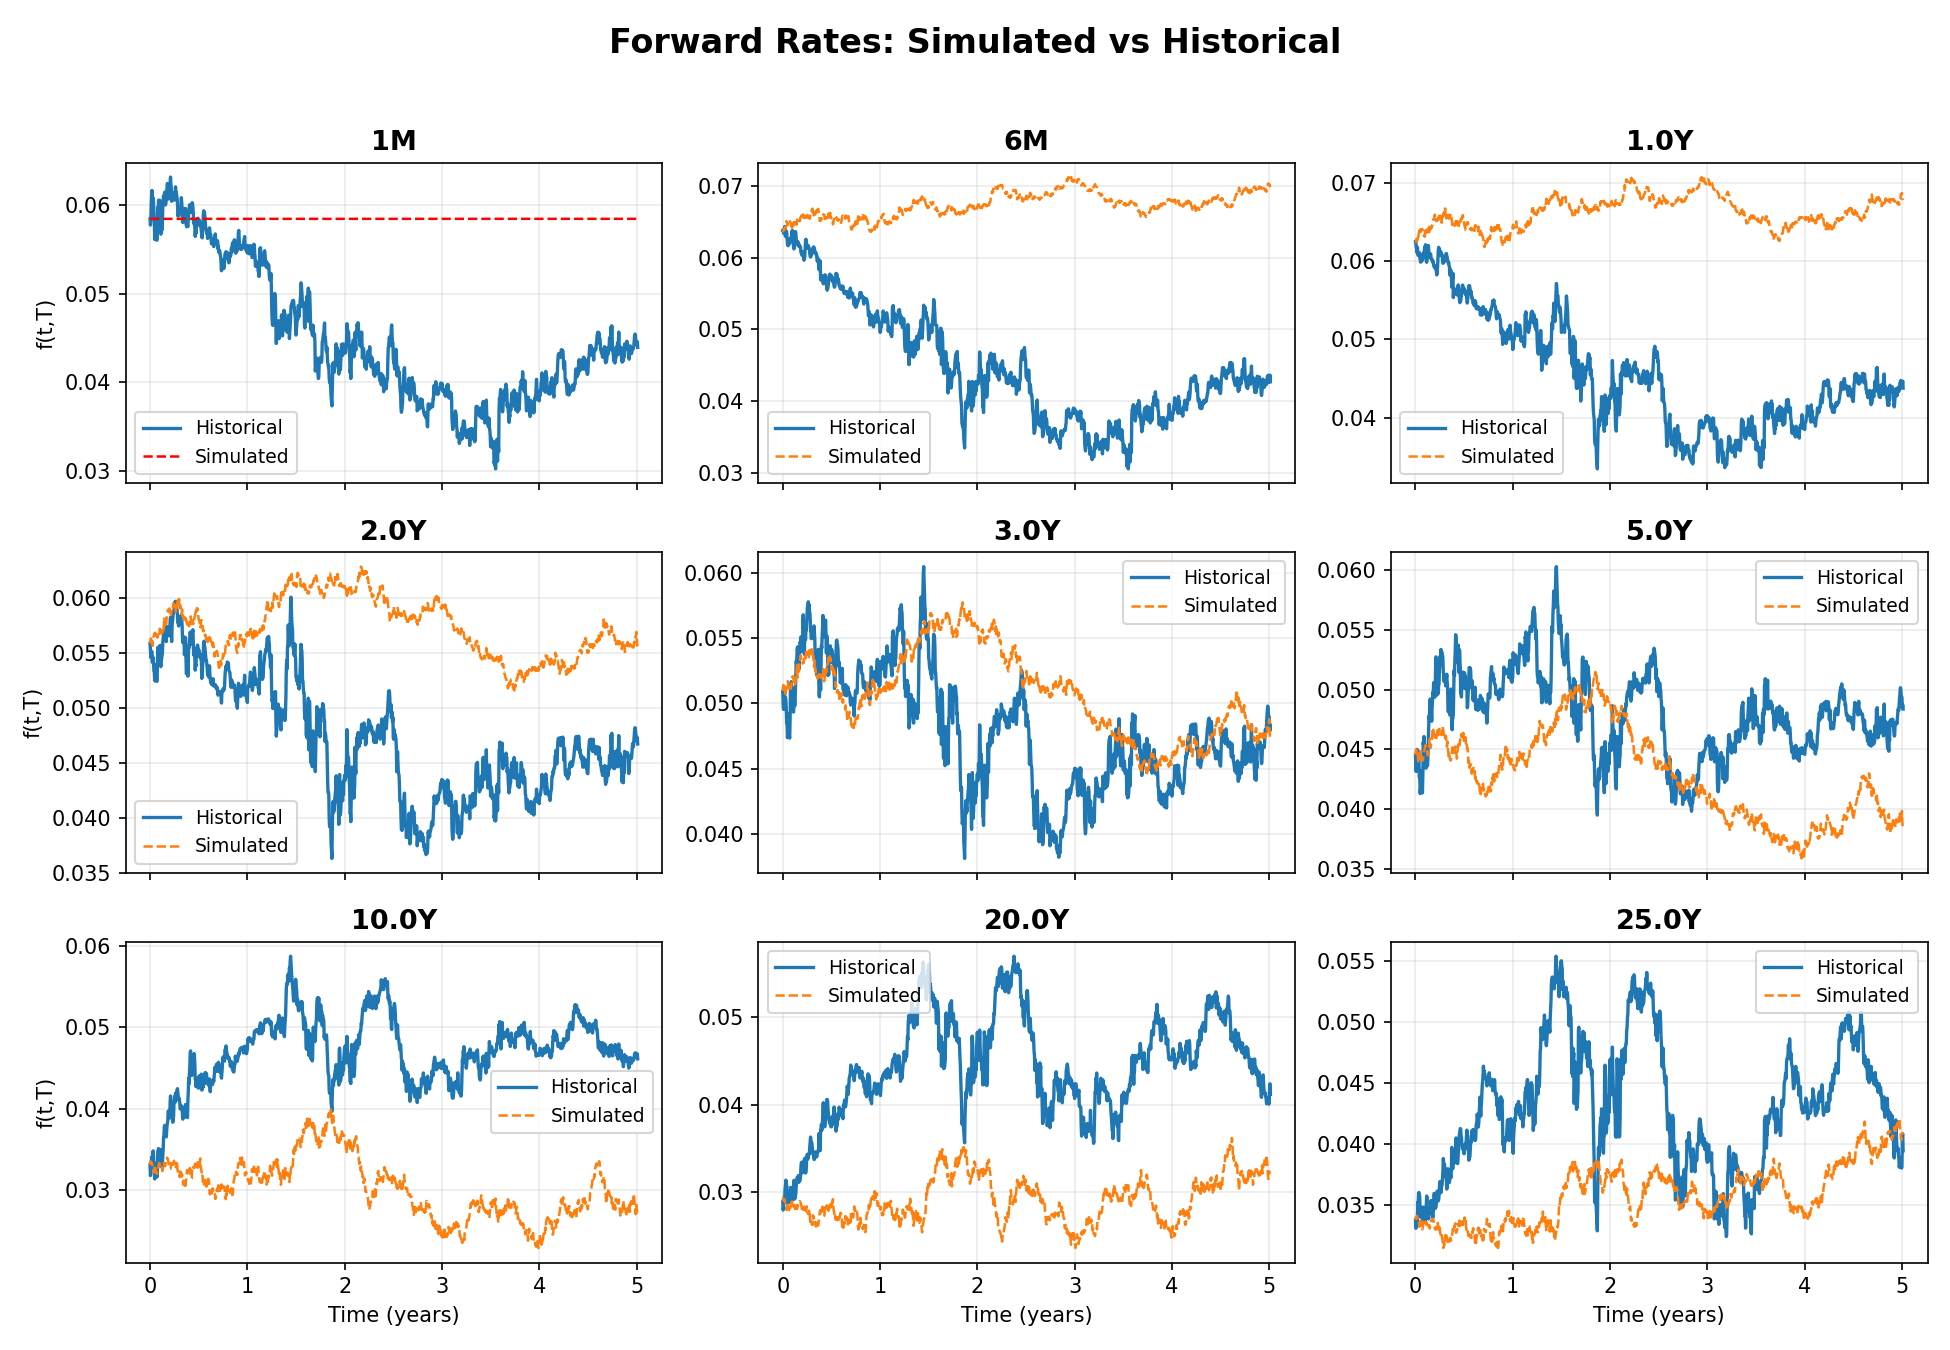
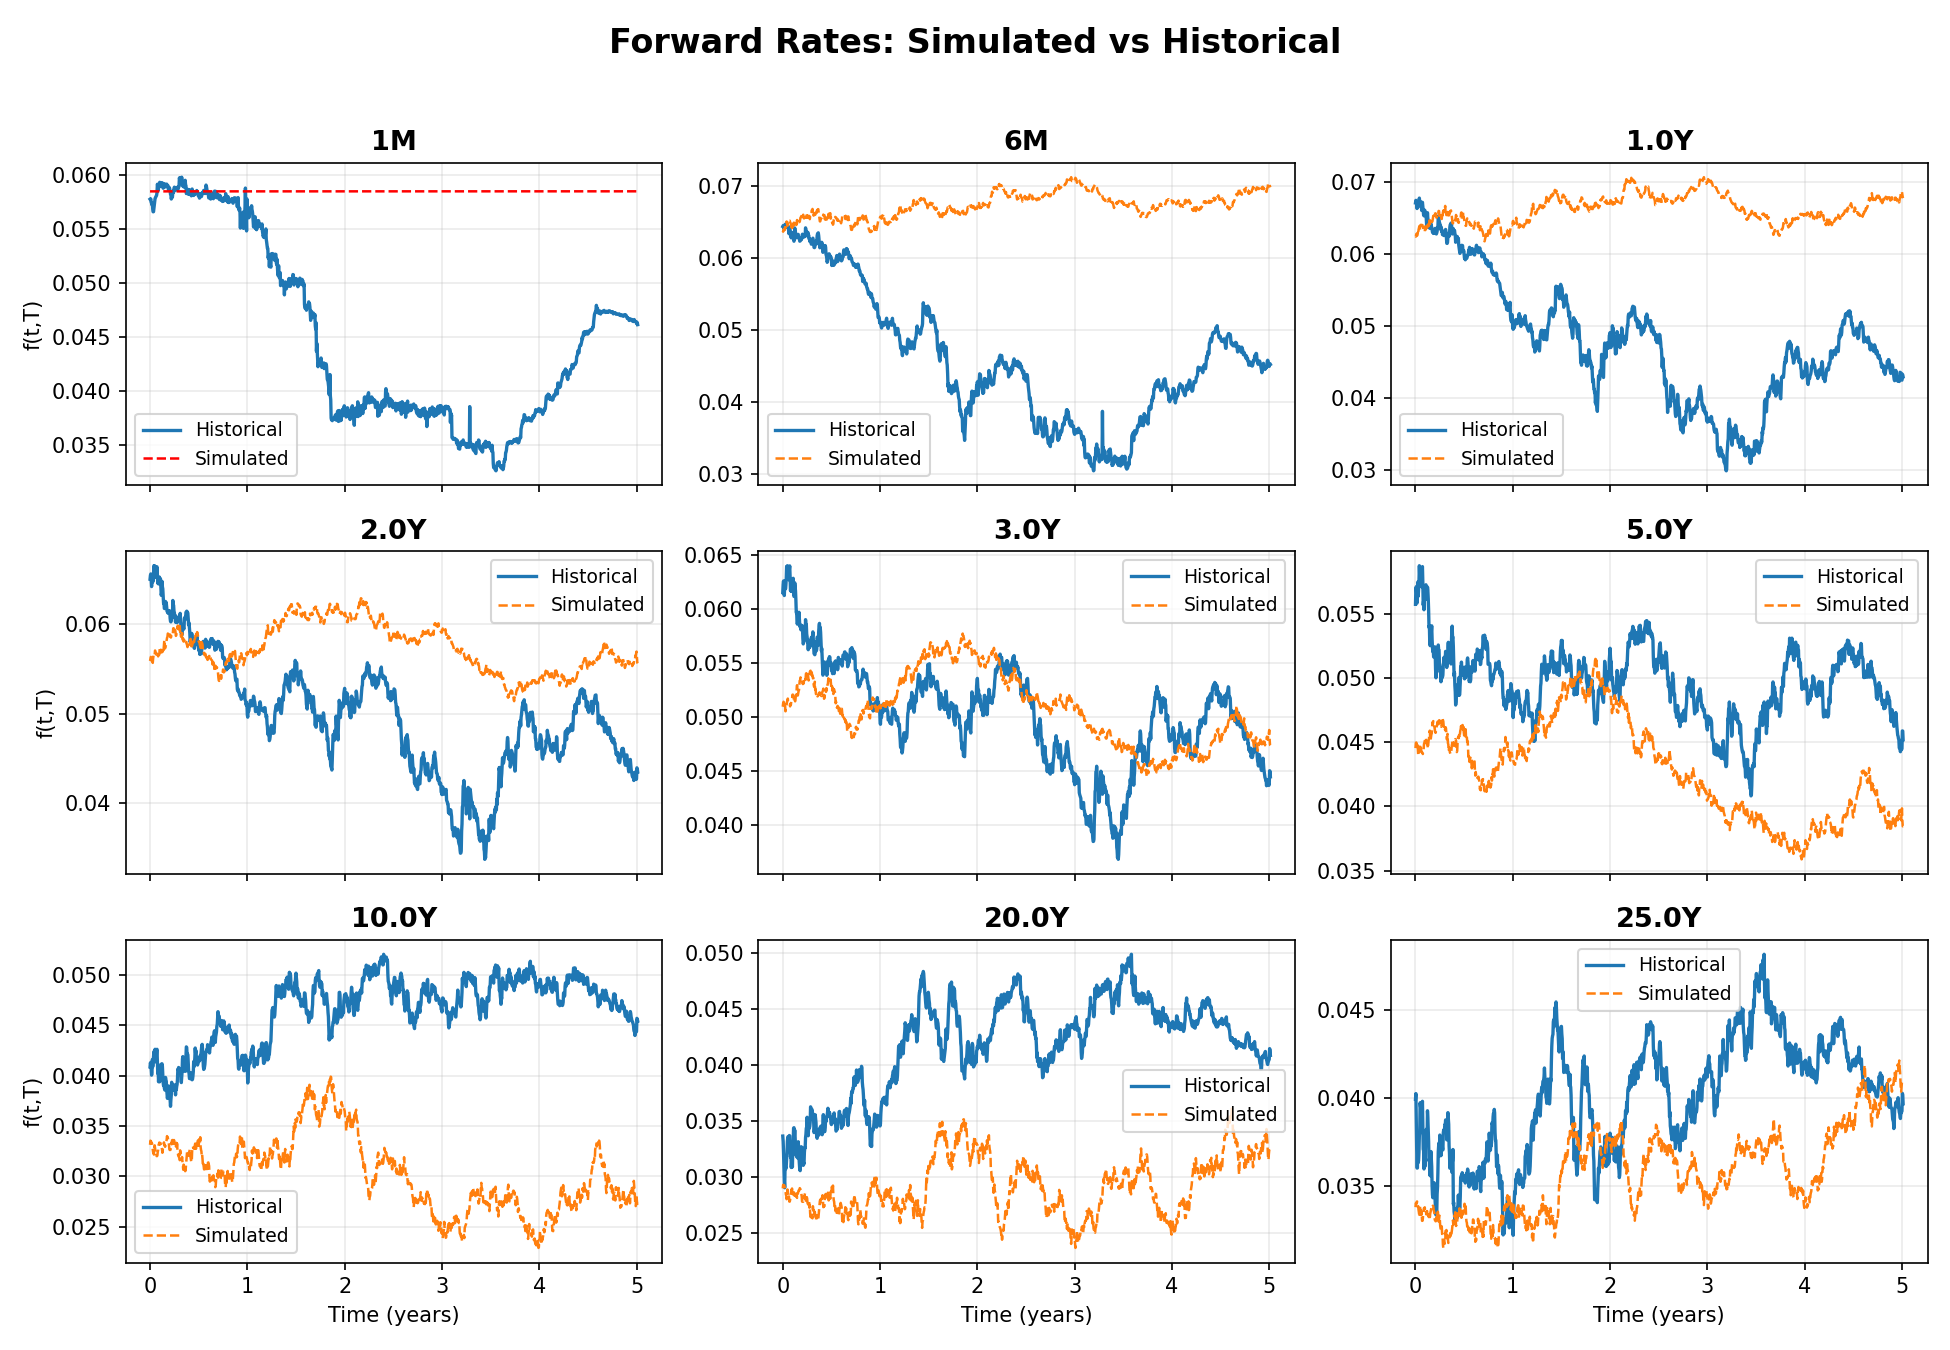
changed historical path to actual dataset

diff --git a/Chapter 3/pca/fwd_plot_historical.py b/Chapter 3/pca/fwd_plot_historical.py
@@ -117,9 +117,9 @@ def main():
     csv_path = r"Chapter 3\data\GLC_fwd_curve_raw.csv"
     df = pd.read_csv(csv_path)
 
-    if "time" in df.columns:
-        t_index = df["time"].to_numpy()
-        df = df.set_index("time")
+    if "t" in df.columns:
+        t_index = df["t"].to_numpy()
+        df = df.set_index("t")
     else:
         t_index = np.arange(len(df), dtype=int)
 

diff --git a/Chapter 3/pca/drift_calculation_(run_script).py b/Chapter 3/pca/drift_calculation_(run_script).py
@@ -10,7 +10,7 @@ from volatility_fn import VolatilityFitter, PolynomialInterpolator
 
 df = pd.read_csv(r"Chapter 3\data\GLC_fwd_curve_raw.csv")
 df = df / 100.0
-df = df.set_index("time")
+df = df.set_index("t")
 
 def parse_tenor(s: str) -> float:
     """Return tenor in years from labels like '1M','6M','1.0Y','10.0Y'."""
